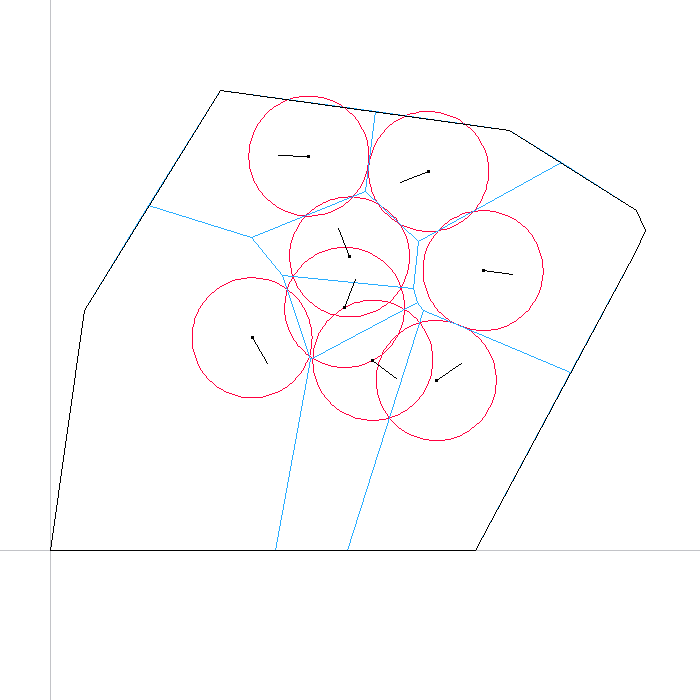
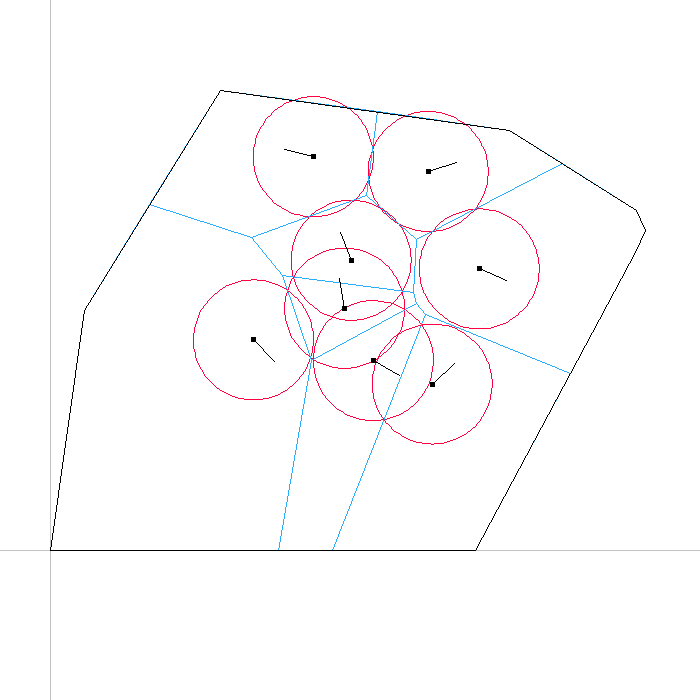
Made agent positions on plot clearer and changes screensots

diff --git a/src/NRobot/NRobot.cpp b/src/NRobot/NRobot.cpp
@@ -1382,7 +1382,7 @@ void nr::plot_position(
     const SDL_Color& color
 ) {
 	/* Plot position */
-	nr::plot_point( agent.position, color );
+	nr::plot_point( agent.position, color, 2 );
 	/* Plot orientation if needed */
 	if ((agent.dynamics == nr::DYNAMICS_SI_GROUND_XYy) ||
 	    (agent.dynamics == nr::DYNAMICS_SI_AIR_XYZy) ||
